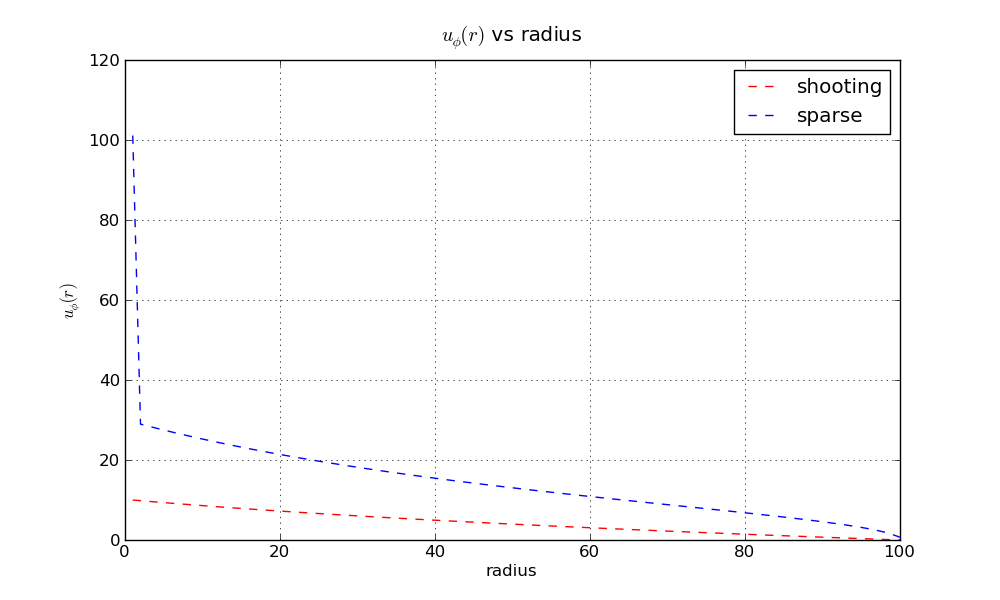
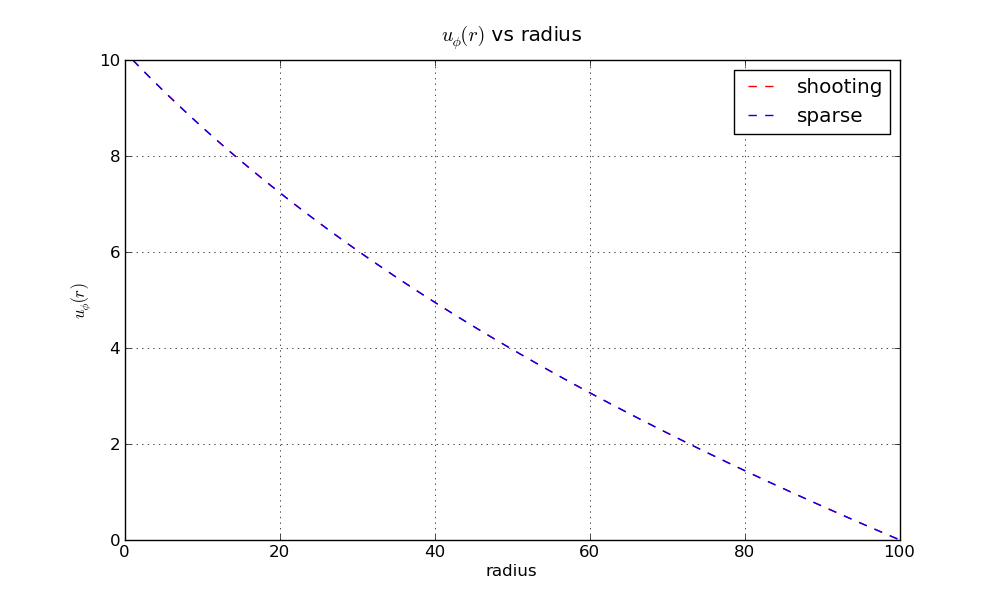
got it working

diff --git a/poisson1d.c b/poisson1d.c
@@ -21,6 +21,7 @@ static double *d1uphi, *uphi_new, *source, *radius;
 static double Wi, Wo, Re, r1, r2;
 static double grid_spacing[2];
 static int P_size;
+static double Pinner, Pouter;
 
 
 void open_file(){
@@ -44,10 +45,12 @@ void fill_source(){
     for(i=0; i<(P_size+2); i++){
         radius[i] = r1 + ((i-1)*grid_spacing[0]);
         if(i==0){
-            source[i] = (2.0*radius[i]*Re*Wi*Wi);
+            //source[i] = (2.0*radius[i]*Re*Wi*Wi);
+            source[i] = Pinner;
         }else if(i==(P_size+1)){
             //source[i] = radius[i]*Re*Wo*Wo;
-            source[i] = 0.0;
+            //source[i] = 0.0;
+            source[i] = Pouter;
         }/*else if(i==1){ //this could be sketchy, not quite sure if this is the right thing to do.
             source[i] = Re*(d1uphi[i-1]/(radius));
         }else if(i==P_size){
@@ -86,6 +89,8 @@ int main()
     const int N = 102;
     P_size = 100;
     int i, j;
+    Pinner = 1.0;
+    Pouter = 1.0;
     
     d1uphi = (double*) malloc(P_size*sizeof(double));
     uphi_new = (double*) malloc(P_size*sizeof(double));
@@ -188,9 +193,11 @@ int main()
         
         if(i==0){
             //cs_entry(triplet, i, i, a);
-            cs_entry(triplet, i, i+1, e+a);
+            cs_entry(triplet, i, i, 1);
+            //cs_entry(triplet, i, i+1, e+a);
         }else if(i==(M-1)){
-            cs_entry(triplet, i, i-1, a+e);
+            cs_entry(triplet, i, i, 1);
+            //cs_entry(triplet, i, i-1, a+e);
             //cs_entry(triplet, i, i, e);
         }else{
             cs_entry(triplet, i, i-1, a);
